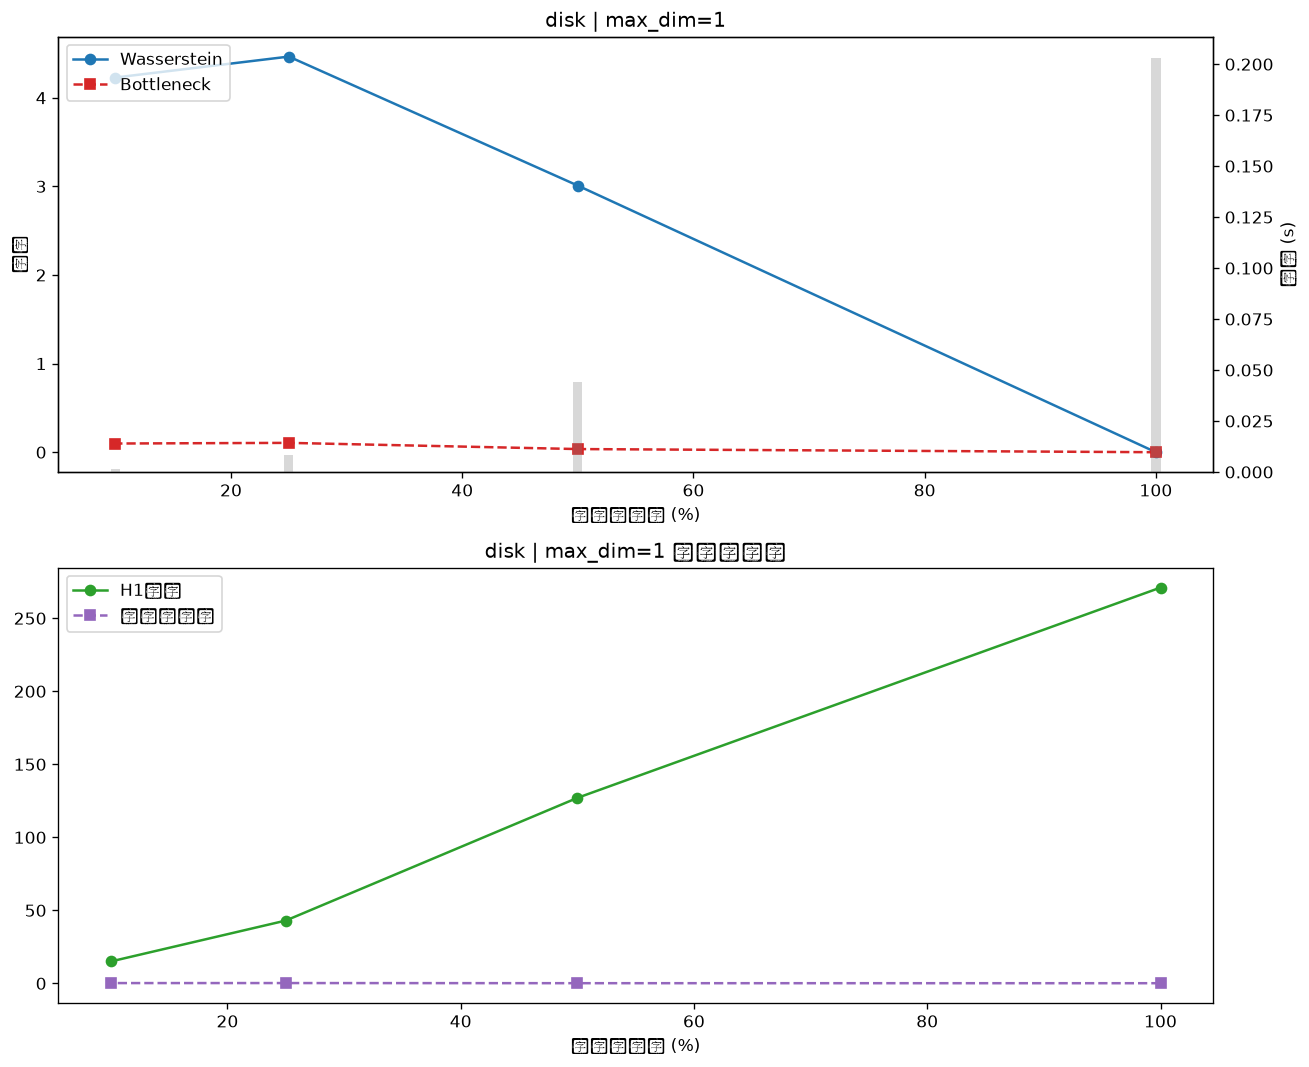
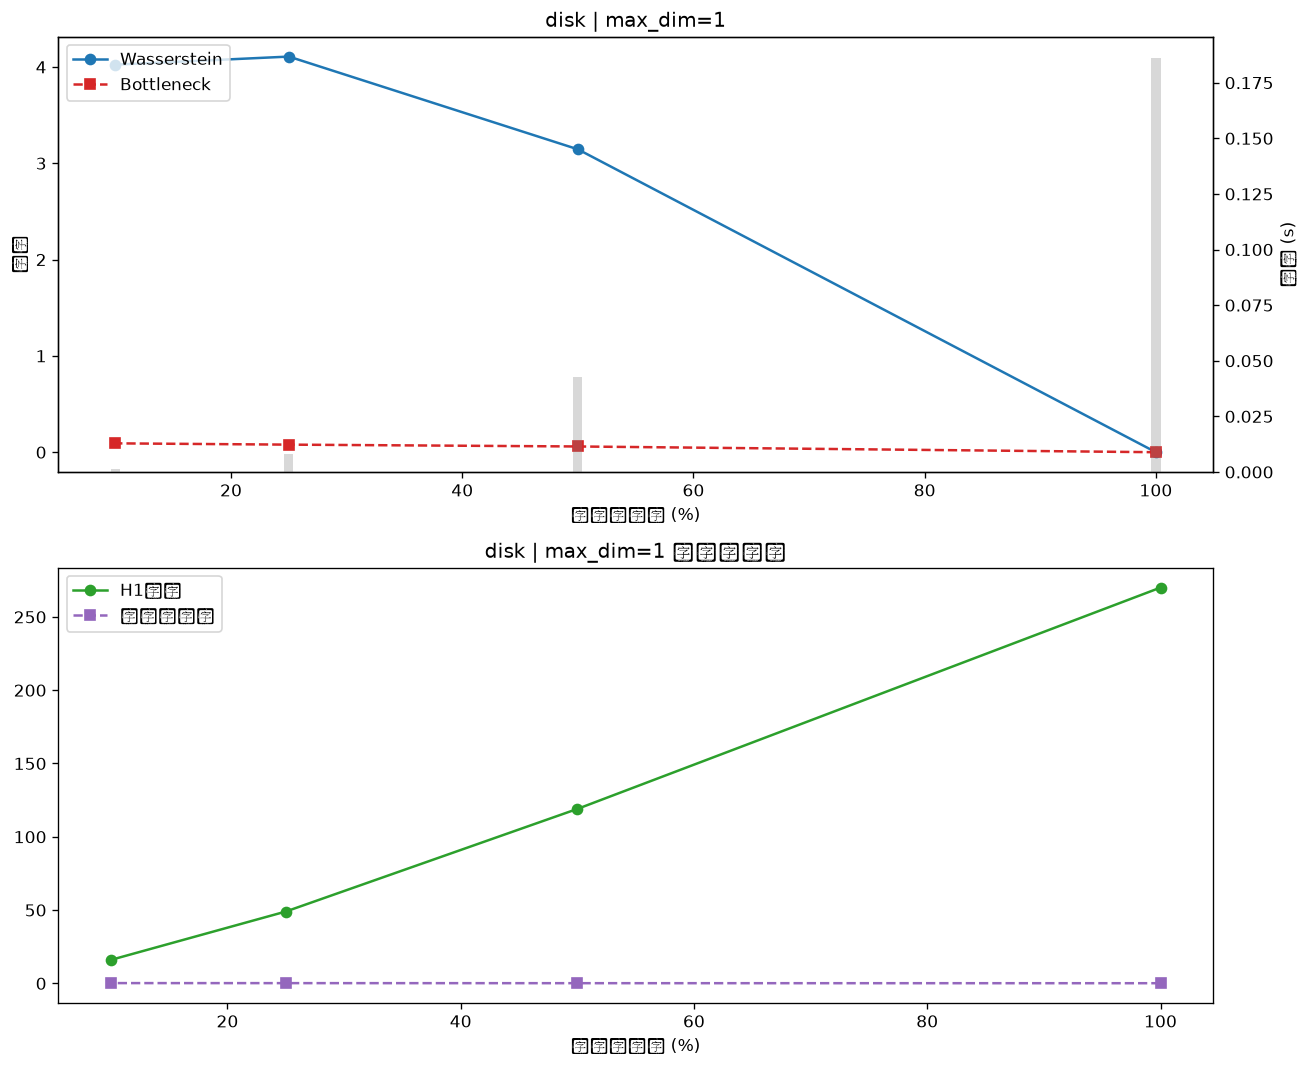
阶段1子任务A完整重跑(WSL)：绝对WD阈值判据生效
- 5对象(circle/disk/torus/sphere/porous_block)×子采样×各自维度
- 修正判据：绝对WD阈值=点云直径×10%（避免基准WD=0失效）
- 结论：sphere建议子采样≥50%，其余建议保持高密度
- 产物：5张参数扫描图 + param_scan_summary.csv(33行)

diff --git a/src/experiment_1a_param_scan.py b/src/experiment_1a_param_scan.py
@@ -171,9 +171,10 @@ def main():
     df.to_csv(csv_path, index=False)
     print(f"\n[已保存] 汇总表: {csv_path}")
 
-    # 参数选择建议：每个对象，找到"稳定性下降可接受"的最小子采样
+    # 参数选择建议：每个对象，用"绝对 WD 阈值 = 点云直径 × 10%"判据
+    # （避免基准 WD=0 导致相对判据失效）
     print("\n" + "=" * 60)
-    print("参数选择建议（基于稳定性与耗时权衡）")
+    print("参数选择建议（绝对 WD 阈值 = 点云直径 × 10%）")
     print("=" * 60)
     for obj_name in GENERATORS:
         obj_max_dim = OBJ_MAX_DIM[obj_name]
@@ -181,19 +182,18 @@ def main():
         if len(sub) == 0:
             print(f"  {obj_name:12s}: （无数据）")
             continue
-        # 基准（100% 采样）的 WD
-        base_row = sub[sub.subsample_ratio >= 0.999]  # 避免浮点比较误差
-        if len(base_row) == 0:
-            base_wd = sub.wasserstein.iloc[0]  # 兜底
-        else:
-            base_wd = base_row.wasserstein.values[0]
-        rel = sub.wasserstein / max(base_wd, 1e-9)
-        cand = sub[rel < 1.5]
+        # 点云直径 = 基准点云最大成对距离（重新生成基准点云计算）
+        base_pts = GENERATORS[obj_name]()
+        from scipy.spatial.distance import pdist
+        dia = float(pdist(base_pts).max())
+        wd_accept = 0.1 * dia  # 绝对阈值：点云直径的 10%
+        # 找到满足 WD < 阈值 的最小子采样比例
+        cand = sub[sub.wasserstein < wd_accept]
         if len(cand) > 0:
             rec = cand.subsample_ratio.min() * 100
-            note = f"建议子采样 ≥ {rec:.0f}%（WD 波动 < 50%）"
+            note = f"建议子采样 ≥ {rec:.0f}%（WD < {wd_accept:.3f}=10%直径，直径{dia:.2f}）"
         else:
-            note = "各子采样下 WD 波动较大，建议保持高密度"
+            note = f"所有子采样 WD 均超阈值 {wd_accept:.3f}，建议保持高密度"
         print(f"  {obj_name:12s}: {note}")
 
     print("\n✅ 子任务A 参数扫描完成")
